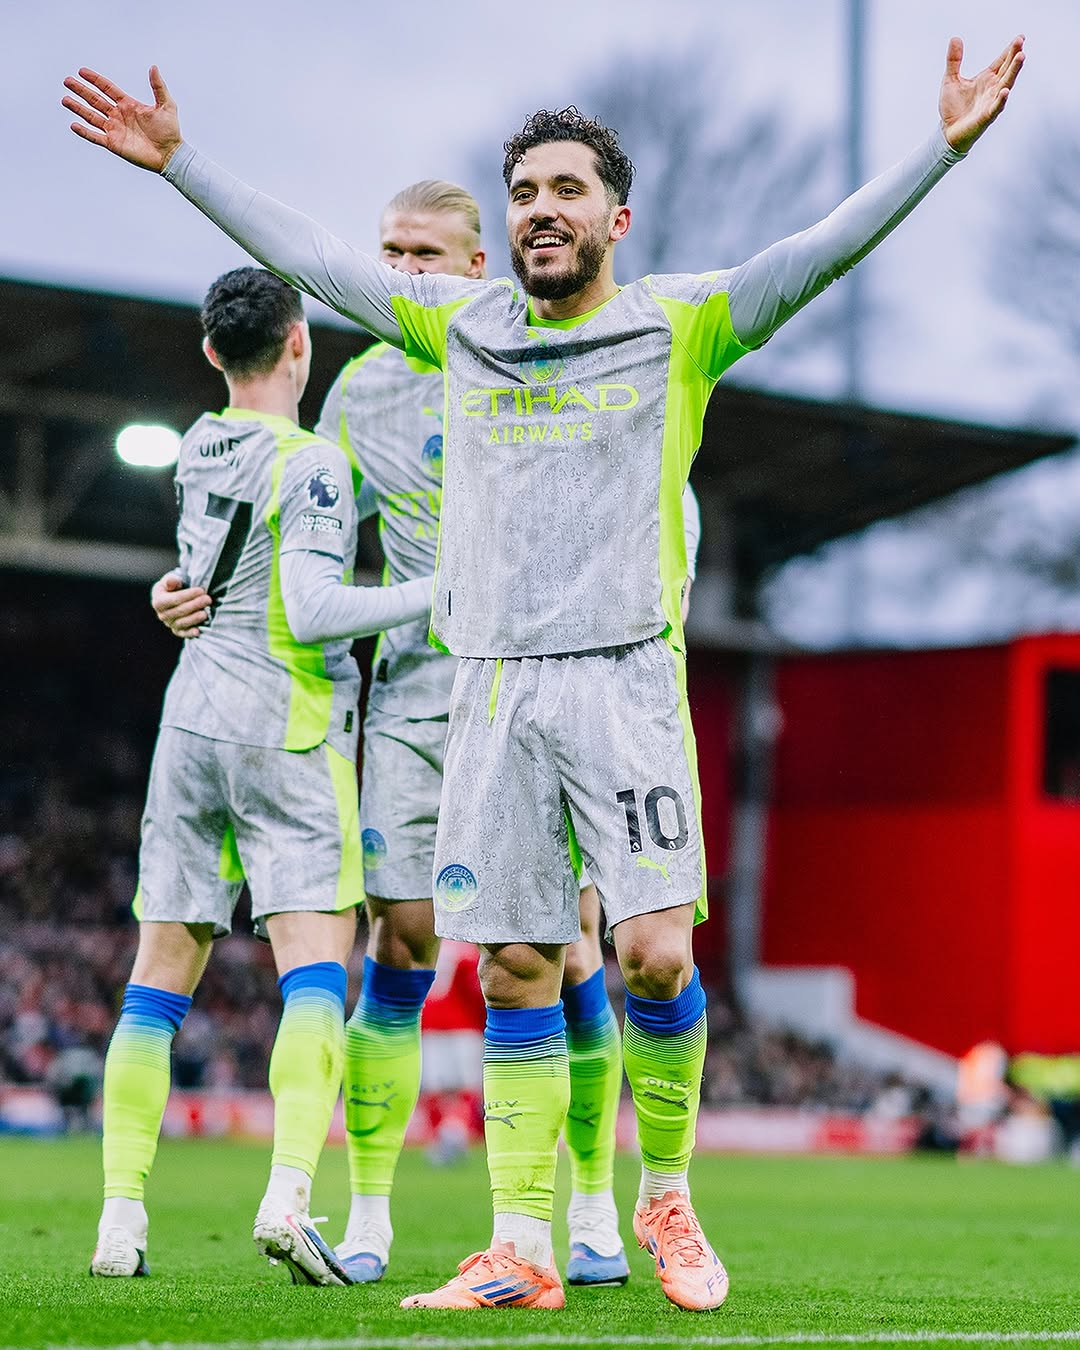
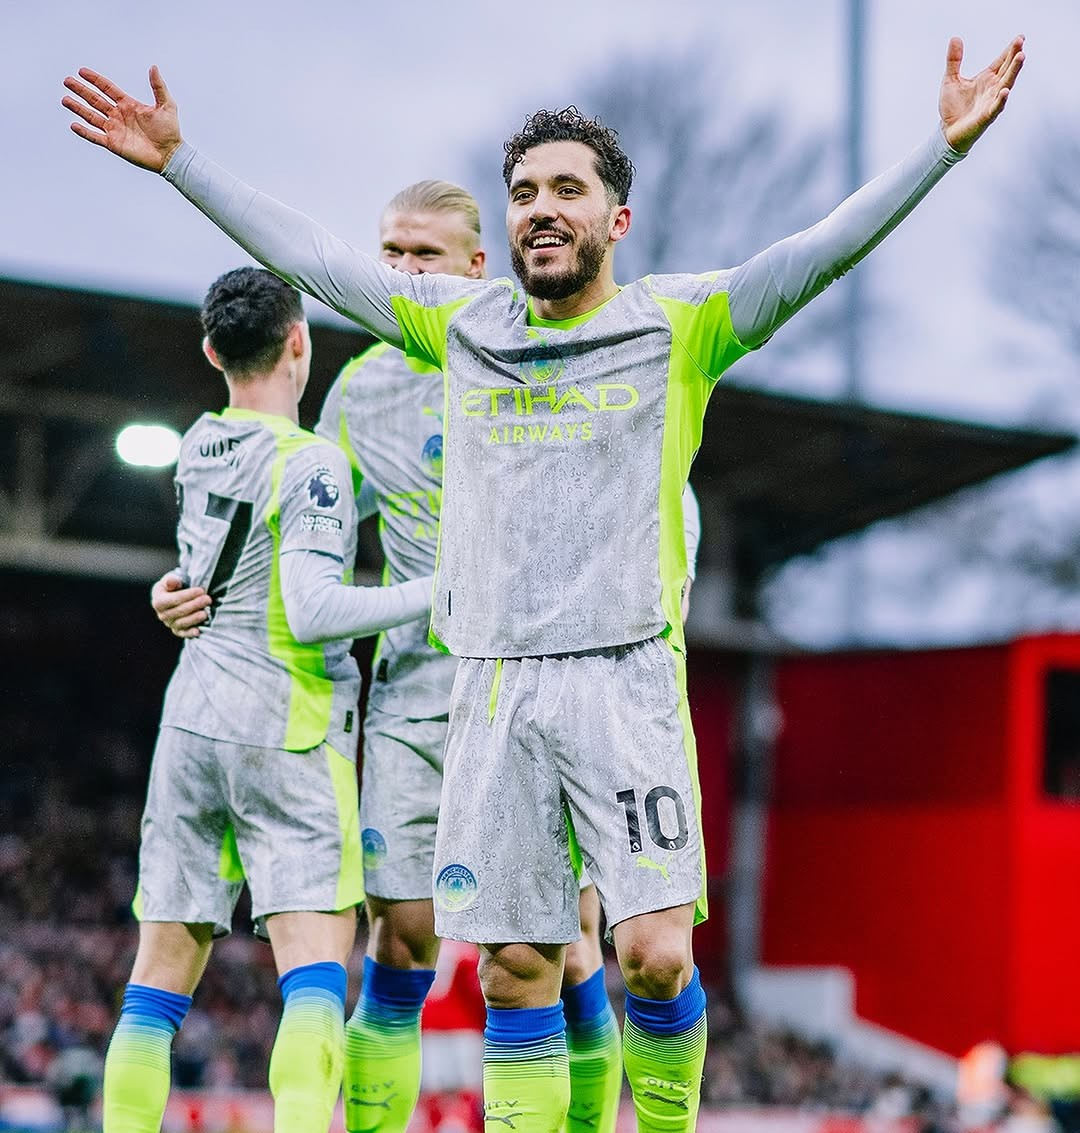
done

diff --git a/index.html b/index.html
@@ -28,7 +28,7 @@
                 </div>
                 
                 <div class="team2">
-                    <img class="away" src="Manchester_City_2016-removebg-preview.png" alt="">
+                    <img class="away" src="https://logodetimes.com/times/manchester-city/logo-manchester-city-1536.png" alt="">
                     <h3>Man City</h3>
                     <div class="logo"></div>
                 </div>
